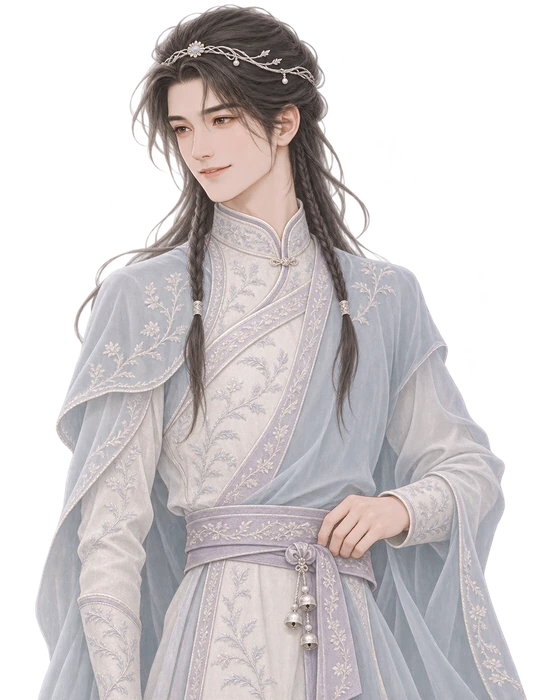
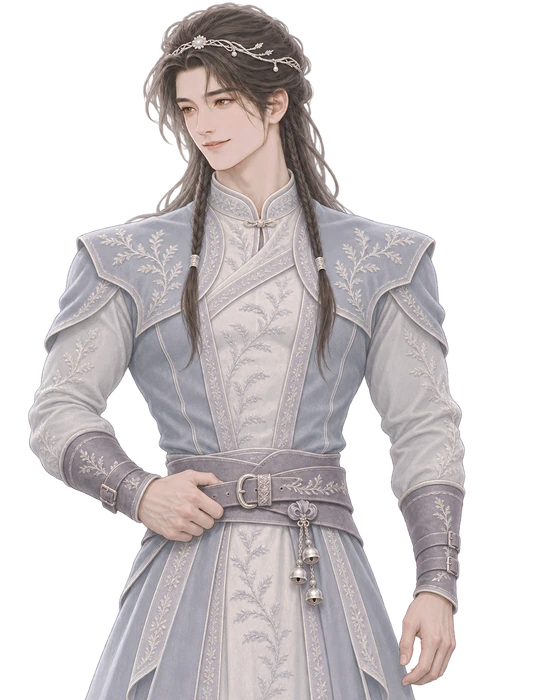
Broaden the White Spring prince’s riding silhouette and verify portrait exclusivity

diff --git a/js/portraits.js b/js/portraits.js
@@ -557,7 +557,8 @@ function porImg(x,size=64){
     const outfit=x.fixedStory==='chuwan'&&Number.isInteger(x.enteredAt)?
       (x.rank>=6?'-grand':x.rank>=4?'-noble':'-court'):'';
     const portrait=whiteSpringKin?'white-spring-'+whiteSpringKin[1]:x.fixedStory+outfit;
-    return `<img class="por palace-portrait${x.cold||x.alive===false?' cold':''}" src="./assets/images/story-cast/${portrait}.webp?v=gouyi-style-3" alt="" width="${size}" height="${size*1.25}" style="object-fit:cover${size<=84?';object-view-box:inset(0 9% 18%)':''}">`;
+    const version=whiteSpringKin?'white-spring-royal-art-2':'gouyi-style-3';
+    return `<img class="por palace-portrait${x.cold||x.alive===false?' cold':''}" src="./assets/images/story-cast/${portrait}.webp?v=${version}" alt="" width="${size}" height="${size*1.25}" style="object-fit:cover${size<=84?';object-view-box:inset(0 9% 18%)':''}">`;
   }
   if(Number.isInteger(x?.courtCraneCell))return courtSpecialPortrait(x,size);
   if(x?.appearance)x=x.appearance;

diff --git a/dev.html b/dev.html
@@ -15,7 +15,7 @@
 <script defer src="./js/audio.js?v=mobile-sound-icon-1"></script>
 <script defer src="./js/jewelry.js?v=palace-life-33-2"></script>
 <script defer src="./js/consort-portrait-details.js?v=1"></script>
-<script defer src="./js/portraits.js?v=white-spring-royal-art-1"></script>
+<script defer src="./js/portraits.js?v=white-spring-royal-art-2"></script>
 <script defer src="./js/scene.js?v=painted-seasons-1"></script>
 <script defer src="./js/palace-storage.js?v=playtest-69-1"></script>
 <script defer src="./js/saves.js?v=white-spring-mail-87"></script>

diff --git a/docs/qa/family-bearing-gallery/allowance.html b/docs/qa/family-bearing-gallery/allowance.html
@@ -16,7 +16,7 @@
 <script defer src="./js/audio.js?v=mobile-sound-icon-1"></script>
 <script defer src="./js/jewelry.js?v=palace-life-33-2"></script>
 <script defer src="./js/consort-portrait-details.js?v=1"></script>
-<script defer src="./js/portraits.js?v=white-spring-royal-art-1"></script>
+<script defer src="./js/portraits.js?v=white-spring-royal-art-2"></script>
 <script defer src="./js/scene.js?v=painted-seasons-1"></script>
 <script defer src="./js/palace-storage.js?v=playtest-69-1"></script>
 <script defer src="./js/saves.js?v=white-spring-mail-87"></script>

diff --git a/docs/qa/family-bearing-gallery/growth.html b/docs/qa/family-bearing-gallery/growth.html
@@ -16,7 +16,7 @@
 <script defer src="./js/audio.js?v=mobile-sound-icon-1"></script>
 <script defer src="./js/jewelry.js?v=palace-life-33-2"></script>
 <script defer src="./js/consort-portrait-details.js?v=1"></script>
-<script defer src="./js/portraits.js?v=white-spring-royal-art-1"></script>
+<script defer src="./js/portraits.js?v=white-spring-royal-art-2"></script>
 <script defer src="./js/scene.js?v=painted-seasons-1"></script>
 <script defer src="./js/palace-storage.js?v=playtest-69-1"></script>
 <script defer src="./js/saves.js?v=white-spring-mail-87"></script>

diff --git a/docs/qa/family-bearing-gallery/humble.html b/docs/qa/family-bearing-gallery/humble.html
@@ -16,7 +16,7 @@
 <script defer src="./js/audio.js?v=mobile-sound-icon-1"></script>
 <script defer src="./js/jewelry.js?v=palace-life-33-2"></script>
 <script defer src="./js/consort-portrait-details.js?v=1"></script>
-<script defer src="./js/portraits.js?v=white-spring-royal-art-1"></script>
+<script defer src="./js/portraits.js?v=white-spring-royal-art-2"></script>
 <script defer src="./js/scene.js?v=painted-seasons-1"></script>
 <script defer src="./js/palace-storage.js?v=playtest-69-1"></script>
 <script defer src="./js/saves.js?v=white-spring-mail-87"></script>

diff --git a/docs/qa/family-bearing-gallery/merchant.html b/docs/qa/family-bearing-gallery/merchant.html
@@ -16,7 +16,7 @@
 <script defer src="./js/audio.js?v=mobile-sound-icon-1"></script>
 <script defer src="./js/jewelry.js?v=palace-life-33-2"></script>
 <script defer src="./js/consort-portrait-details.js?v=1"></script>
-<script defer src="./js/portraits.js?v=white-spring-royal-art-1"></script>
+<script defer src="./js/portraits.js?v=white-spring-royal-art-2"></script>
 <script defer src="./js/scene.js?v=painted-seasons-1"></script>
 <script defer src="./js/palace-storage.js?v=playtest-69-1"></script>
 <script defer src="./js/saves.js?v=white-spring-mail-87"></script>

diff --git a/docs/qa/family-bearing-gallery/noble.html b/docs/qa/family-bearing-gallery/noble.html
@@ -16,7 +16,7 @@
 <script defer src="./js/audio.js?v=mobile-sound-icon-1"></script>
 <script defer src="./js/jewelry.js?v=palace-life-33-2"></script>
 <script defer src="./js/consort-portrait-details.js?v=1"></script>
-<script defer src="./js/portraits.js?v=white-spring-royal-art-1"></script>
+<script defer src="./js/portraits.js?v=white-spring-royal-art-2"></script>
 <script defer src="./js/scene.js?v=painted-seasons-1"></script>
 <script defer src="./js/palace-storage.js?v=playtest-69-1"></script>
 <script defer src="./js/saves.js?v=white-spring-mail-87"></script>

diff --git a/docs/qa/family-bearing-gallery/proud.html b/docs/qa/family-bearing-gallery/proud.html
@@ -16,7 +16,7 @@
 <script defer src="./js/audio.js?v=mobile-sound-icon-1"></script>
 <script defer src="./js/jewelry.js?v=palace-life-33-2"></script>
 <script defer src="./js/consort-portrait-details.js?v=1"></script>
-<script defer src="./js/portraits.js?v=white-spring-royal-art-1"></script>
+<script defer src="./js/portraits.js?v=white-spring-royal-art-2"></script>
 <script defer src="./js/scene.js?v=painted-seasons-1"></script>
 <script defer src="./js/palace-storage.js?v=playtest-69-1"></script>
 <script defer src="./js/saves.js?v=white-spring-mail-87"></script>

diff --git a/docs/qa/friendship-arcs-gallery/chronicle.html b/docs/qa/friendship-arcs-gallery/chronicle.html
@@ -17,7 +17,7 @@
 <script defer src="./js/audio.js?v=mobile-sound-icon-1"></script>
 <script defer src="./js/jewelry.js?v=palace-life-33-2"></script>
 <script defer src="./js/consort-portrait-details.js?v=1"></script>
-<script defer src="./js/portraits.js?v=white-spring-royal-art-1"></script>
+<script defer src="./js/portraits.js?v=white-spring-royal-art-2"></script>
 <script defer src="./js/scene.js?v=painted-seasons-1"></script>
 <script defer src="./js/palace-storage.js?v=playtest-69-1"></script>
 <script defer src="./js/saves.js?v=white-spring-mail-87"></script>

diff --git a/docs/qa/friendship-arcs-gallery/distance.html b/docs/qa/friendship-arcs-gallery/distance.html
@@ -17,7 +17,7 @@
 <script defer src="./js/audio.js?v=mobile-sound-icon-1"></script>
 <script defer src="./js/jewelry.js?v=palace-life-33-2"></script>
 <script defer src="./js/consort-portrait-details.js?v=1"></script>
-<script defer src="./js/portraits.js?v=white-spring-royal-art-1"></script>
+<script defer src="./js/portraits.js?v=white-spring-royal-art-2"></script>
 <script defer src="./js/scene.js?v=painted-seasons-1"></script>
 <script defer src="./js/palace-storage.js?v=playtest-69-1"></script>
 <script defer src="./js/saves.js?v=white-spring-mail-87"></script>

diff --git a/docs/qa/friendship-arcs-gallery/favor.html b/docs/qa/friendship-arcs-gallery/favor.html
@@ -17,7 +17,7 @@
 <script defer src="./js/audio.js?v=mobile-sound-icon-1"></script>
 <script defer src="./js/jewelry.js?v=palace-life-33-2"></script>
 <script defer src="./js/consort-portrait-details.js?v=1"></script>
-<script defer src="./js/portraits.js?v=white-spring-royal-art-1"></script>
+<script defer src="./js/portraits.js?v=white-spring-royal-art-2"></script>
 <script defer src="./js/scene.js?v=painted-seasons-1"></script>
 <script defer src="./js/palace-storage.js?v=playtest-69-1"></script>
 <script defer src="./js/saves.js?v=white-spring-mail-87"></script>

diff --git a/docs/qa/friendship-arcs-gallery/gift.html b/docs/qa/friendship-arcs-gallery/gift.html
@@ -17,7 +17,7 @@
 <script defer src="./js/audio.js?v=mobile-sound-icon-1"></script>
 <script defer src="./js/jewelry.js?v=palace-life-33-2"></script>
 <script defer src="./js/consort-portrait-details.js?v=1"></script>
-<script defer src="./js/portraits.js?v=white-spring-royal-art-1"></script>
+<script defer src="./js/portraits.js?v=white-spring-royal-art-2"></script>
 <script defer src="./js/scene.js?v=painted-seasons-1"></script>
 <script defer src="./js/palace-storage.js?v=playtest-69-1"></script>
 <script defer src="./js/saves.js?v=white-spring-mail-87"></script>
